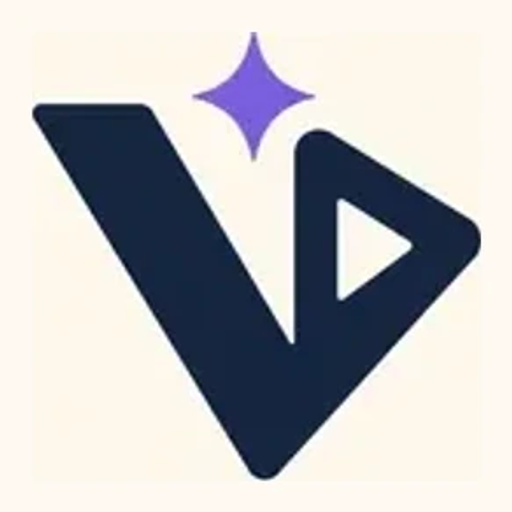
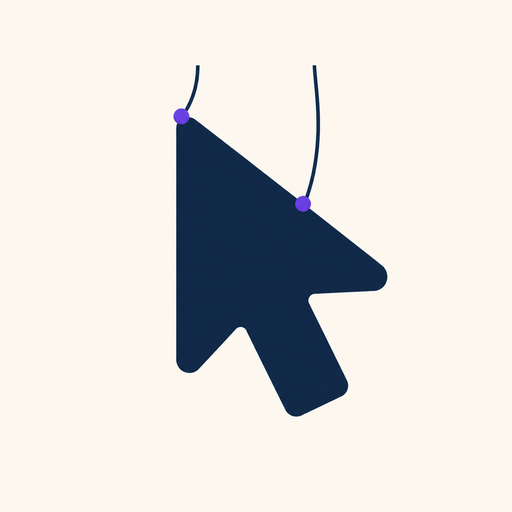
Simplify Voodoo landing page styling

Changed region(s): [[0.0625, 0.0625, 0.9375, 0.9375]]

diff --git a/app/globals.css b/app/globals.css
@@ -164,25 +164,23 @@ html { scroll-behavior: smooth; }
 .nav-links { display: flex; align-items: center; gap: 34px; }
 .nav-links a { color: #475467; text-decoration: none; font-size: 13px; font-weight: 600; transition: color .2s; }
 .nav-links a:hover { color: var(--ink); }
-.nav-cta { justify-self: end; align-self: center; display: inline-flex; align-items: center; gap: 13px; padding: 11px 15px 11px 18px; border: 1px solid #ddd9f5; border-radius: 99px; background: white; color: var(--ink); text-decoration: none; font-size: 13px; font-weight: 700; box-shadow: 0 5px 18px rgba(61, 49, 126, .06); transition: transform .2s, box-shadow .2s; }
+.nav-cta { justify-self: end; align-self: center; display: inline-flex; align-items: center; gap: 13px; padding: 11px 15px 11px 18px; border: 1px solid #ddd9f5; border-radius: 99px; background: white; color: var(--ink); text-decoration: none; font-size: 13px; font-weight: 700; transition: border-color .2s; }
 .nav-cta span { display: grid; place-items: center; width: 25px; height: 25px; border-radius: 50%; background: var(--ink); color: white; }
-.nav-cta:hover { transform: translateY(-2px); box-shadow: 0 9px 24px rgba(61, 49, 126, .11); }
+.nav-cta:hover { border-color: #a9a0eb; }
 
 .landing-hero { position: relative; max-width: 1240px; margin: auto; padding: 112px 30px 74px; text-align: center; }
 .landing-hero::before { content: ""; position: absolute; z-index: 0; width: 760px; height: 540px; top: -120px; left: 50%; transform: translateX(-50%); border-radius: 50%; background: radial-gradient(circle, rgba(117, 96, 235, .14), rgba(117, 96, 235, 0) 68%); pointer-events: none; }
 .landing-hero > * { position: relative; z-index: 1; }
-.eyebrow { display: inline-flex; align-items: center; gap: 8px; margin-bottom: 24px; padding: 8px 13px; border: 1px solid #e4e0f7; border-radius: 99px; background: rgba(255,255,255,.78); color: #5548bd; font-size: 11px; font-weight: 700; letter-spacing: .07em; text-transform: uppercase; }
-.eyebrow span { font-size: 13px; }
 .landing h1 { max-width: 960px; margin: 0 auto 26px; font-size: clamp(54px, 7.2vw, 92px); line-height: .98; letter-spacing: -.062em; }
 .landing h1 em { color: #6558e8; }
 .landing-hero > p { max-width: 700px; margin: auto; color: #667085; font-size: 19px; line-height: 1.65; }
 .hero-actions { display: flex; justify-content: center; align-items: center; gap: 27px; margin-top: 34px; }
-.primary-cta { display: inline-flex; align-items: center; gap: 20px; min-height: 54px; padding: 0 13px 0 22px; border-radius: 99px; background: var(--ink); color: white; text-decoration: none; font-size: 14px; font-weight: 700; box-shadow: 0 13px 30px rgba(16, 24, 40, .18); transition: transform .2s, box-shadow .2s; }
+.primary-cta { display: inline-flex; align-items: center; gap: 20px; min-height: 54px; padding: 0 13px 0 22px; border: 1px solid var(--ink); border-radius: 99px; background: var(--ink); color: white; text-decoration: none; font-size: 14px; font-weight: 700; transition: background .2s, color .2s; }
 .primary-cta span { display: grid; place-items: center; width: 31px; height: 31px; border-radius: 50%; background: white; color: var(--ink); font-size: 17px; }
-.primary-cta:hover { transform: translateY(-2px); box-shadow: 0 16px 35px rgba(16, 24, 40, .24); }
+.primary-cta:hover { background: #293548; }
 .text-link { display: inline-flex; align-items: center; gap: 10px; color: #475467; text-decoration: none; font-size: 13px; font-weight: 600; }
 .text-link span { color: #6558e8; }
-.hero-visual { margin-top: 66px; padding: 13px; border: 1px solid #e9e3dd; border-radius: 32px; background: rgba(255,255,255,.75); box-shadow: 0 32px 80px rgba(40, 31, 74, .11); }
+.hero-visual { margin-top: 66px; padding: 13px; border: 1px solid #e9e3dd; border-radius: 32px; background: rgba(255,255,255,.75); }
 .hero-visual img { display: block; width: 100%; height: auto; border-radius: 22px; }
 .hero-note { display: flex; justify-content: center; gap: 0; margin-top: 28px; color: #667085; font-size: 12px; font-weight: 600; }
 .hero-note span { display: flex; align-items: center; }
@@ -193,10 +191,9 @@ html { scroll-behavior: smooth; }
 .story-section.reverse .section-copy { order: 2; }
 .story-section.reverse .section-image { order: 1; }
 .section-copy { max-width: 470px; }
-.section-number { display: block; margin-bottom: 22px; color: #6558e8; font-size: 10px; font-weight: 800; letter-spacing: .16em; }
 .landing h2 { margin: 0 0 23px; font-size: clamp(36px, 4vw, 54px); line-height: 1.08; letter-spacing: -.047em; }
 .section-copy > p, .section-heading > p { margin: 0 0 16px; color: #667085; font-size: 17px; line-height: 1.7; }
-.section-image { min-width: 0; padding: 10px; border: 1px solid #ebe6df; border-radius: 28px; background: white; box-shadow: 0 22px 55px rgba(36, 26, 65, .075); }
+.section-image { min-width: 0; padding: 10px; border: 1px solid #ebe6df; border-radius: 28px; background: white; }
 .section-image img, .use-case-image img { display: block; width: 100%; height: auto; border-radius: 19px; }
 .simple-list { display: grid; gap: 13px; margin: 30px 0 0; padding: 0; list-style: none; }
 .simple-list li { display: flex; align-items: center; gap: 12px; color: #344054; font-size: 14px; font-weight: 600; }
@@ -213,7 +210,6 @@ html { scroll-behavior: smooth; }
 
 .use-case-section { padding: 128px max(24px, calc((100vw - 1180px) / 2)); background: #17152d; color: white; }
 .section-heading { max-width: 700px; margin-bottom: 54px; }
-.use-case-section .section-number { color: #a99ff3; }
 .use-case-section h2 { color: white; }
 .use-case-section .section-heading p { color: #aaa8b8; }
 .use-case-layout { display: grid; grid-template-columns: minmax(0, 1.08fr) minmax(0, .92fr); gap: 20px; align-items: stretch; }
@@ -229,8 +225,7 @@ html { scroll-behavior: smooth; }
 
 .final-cta { width: min(1180px, calc(100% - 48px)); margin: 52px auto; padding: 94px 30px; border-radius: 32px; background: radial-gradient(circle at 50% -10%, #5547b9, transparent 46%), #17152d; color: white; text-align: center; overflow: hidden; }
 .cta-spark { display: grid; place-items: center; width: 48px; height: 48px; margin: 0 auto 22px; border: 1px solid rgba(255,255,255,.2); border-radius: 15px; background: rgba(255,255,255,.08); color: #b7aff8; font-size: 20px; }
-.final-cta > span { color: #a99ff3; font-size: 9px; font-weight: 800; letter-spacing: .18em; }
-.final-cta h2 { margin: 18px auto; color: white; }
+.final-cta h2 { margin: 0 auto 18px; color: white; }
 .final-cta p { max-width: 570px; margin: 0 auto 30px; color: #b9b7c5; font-size: 15px; line-height: 1.65; }
 .primary-cta.light { background: white; color: #17152d; box-shadow: none; }
 .primary-cta.light span { background: #6a5ce0; color: white; }

diff --git a/app/page.tsx b/app/page.tsx
@@ -30,7 +30,6 @@ export default function LandingPage() {
       </header>
 
       <section className="landing-hero">
-        <div className="eyebrow"><span>✦</span> Video tutorials, made for you</div>
         <h1>Show people how<br /><em>your product works.</em></h1>
         <p>Paste a web app link and name a task. Voodoo uses the product, captures the important steps, and creates a clear narrated video.</p>
         <div className="hero-actions">
@@ -45,7 +44,6 @@ export default function LandingPage() {
 
       <section className="story-section section-problem" id="why-voodoo">
         <div className="section-copy">
-          <span className="section-number">01 · THE PROBLEM</span>
           <h2>Helpful videos should not take days to make.</h2>
           <p>People want to see how a product works. But recording, narrating, editing, and updating every tutorial takes too much time.</p>
           <p>So videos go out of date—or never get made at all.</p>
@@ -57,7 +55,6 @@ export default function LandingPage() {
 
       <section className="story-section reverse section-proof">
         <div className="section-copy">
-          <span className="section-number">02 · WHY VIDEO</span>
           <h2>Showing is better than telling.</h2>
           <p>A short walkthrough gives people the full picture: where to go, what to click, and what should happen next.</p>
           <ul className="simple-list">
@@ -73,7 +70,6 @@ export default function LandingPage() {
 
       <section className="story-section" id="how-it-works">
         <div className="section-copy">
-          <span className="section-number">03 · HOW IT WORKS</span>
           <h2>From app link to finished video.</h2>
           <div className="step-list">
             <div><b>1</b><p><strong>Describe the task.</strong><br />Add the app link and say what you want to explain.</p></div>
@@ -88,7 +84,6 @@ export default function LandingPage() {
 
       <section className="story-section reverse section-current">
         <div className="section-copy">
-          <span className="section-number">04 · STAY CURRENT</span>
           <h2>Your product changed. Your tutorial can too.</h2>
           <p>When the interface changes, skip the studio setup and editing timeline. Run the tutorial again and get a fresh version.</p>
           <div className="callout"><span>↻</span><p><strong>Regenerate, don&apos;t re-record.</strong><br />Keep help content close to the product people actually use.</p></div>
@@ -100,7 +95,6 @@ export default function LandingPage() {
 
       <section className="use-case-section" id="use-cases">
         <div className="section-heading">
-          <span className="section-number">05 · USE CASES</span>
           <h2>One clear video.<br />Many useful moments.</h2>
           <p>Use Voodoo anywhere someone needs to understand software quickly.</p>
         </div>
@@ -114,7 +108,6 @@ export default function LandingPage() {
 
       <section className="story-section reverse section-teams">
         <div className="section-copy">
-          <span className="section-number">06 · BUILT FOR TEAMS</span>
           <h2>Make product knowledge easy to find and easy to trust.</h2>
           <p>Give every team a simple way to create visual help, without waiting for a video expert.</p>
           <div className="team-pills">{teams.map((team) => <span key={team}>{team}</span>)}</div>
@@ -126,7 +119,6 @@ export default function LandingPage() {
 
       <section className="final-cta">
         <div className="cta-spark">✦</div>
-        <span>READY WHEN YOU ARE</span>
         <h2>Turn your next workflow<br />into a clear video.</h2>
         <p>No recording setup. No editing timeline. Just show Voodoo what to explain.</p>
         <Link className="primary-cta light" href="/app">Create a tutorial <span>→</span></Link>

diff --git a/components/Logo.tsx b/components/Logo.tsx
@@ -4,7 +4,7 @@ import Link from "next/link";
 export function Logo() {
   return (
     <Link className="brand" href="/" aria-label="Voodoo home">
-      <Image className="logo" src="/landing/voodoo-icon.webp" alt="" width={40} height={40} priority />
+      <Image className="logo" src="/landing/voodoo-icon-v2.webp" alt="" width={40} height={40} priority />
       <span>Voodoo</span>
     </Link>
   );